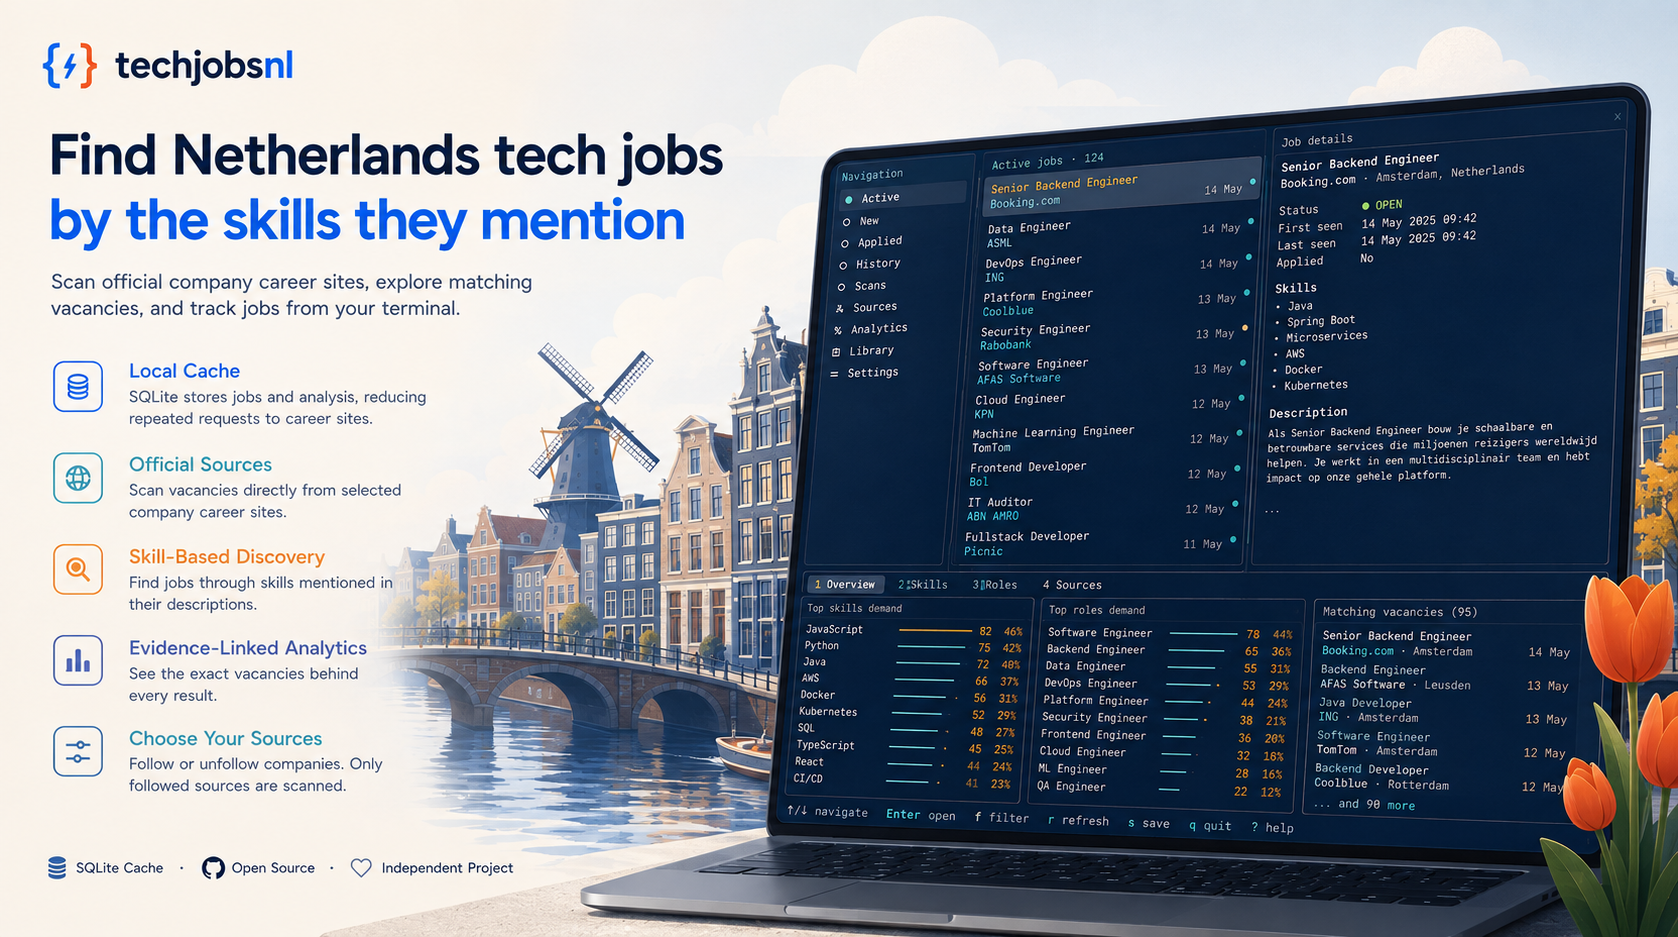
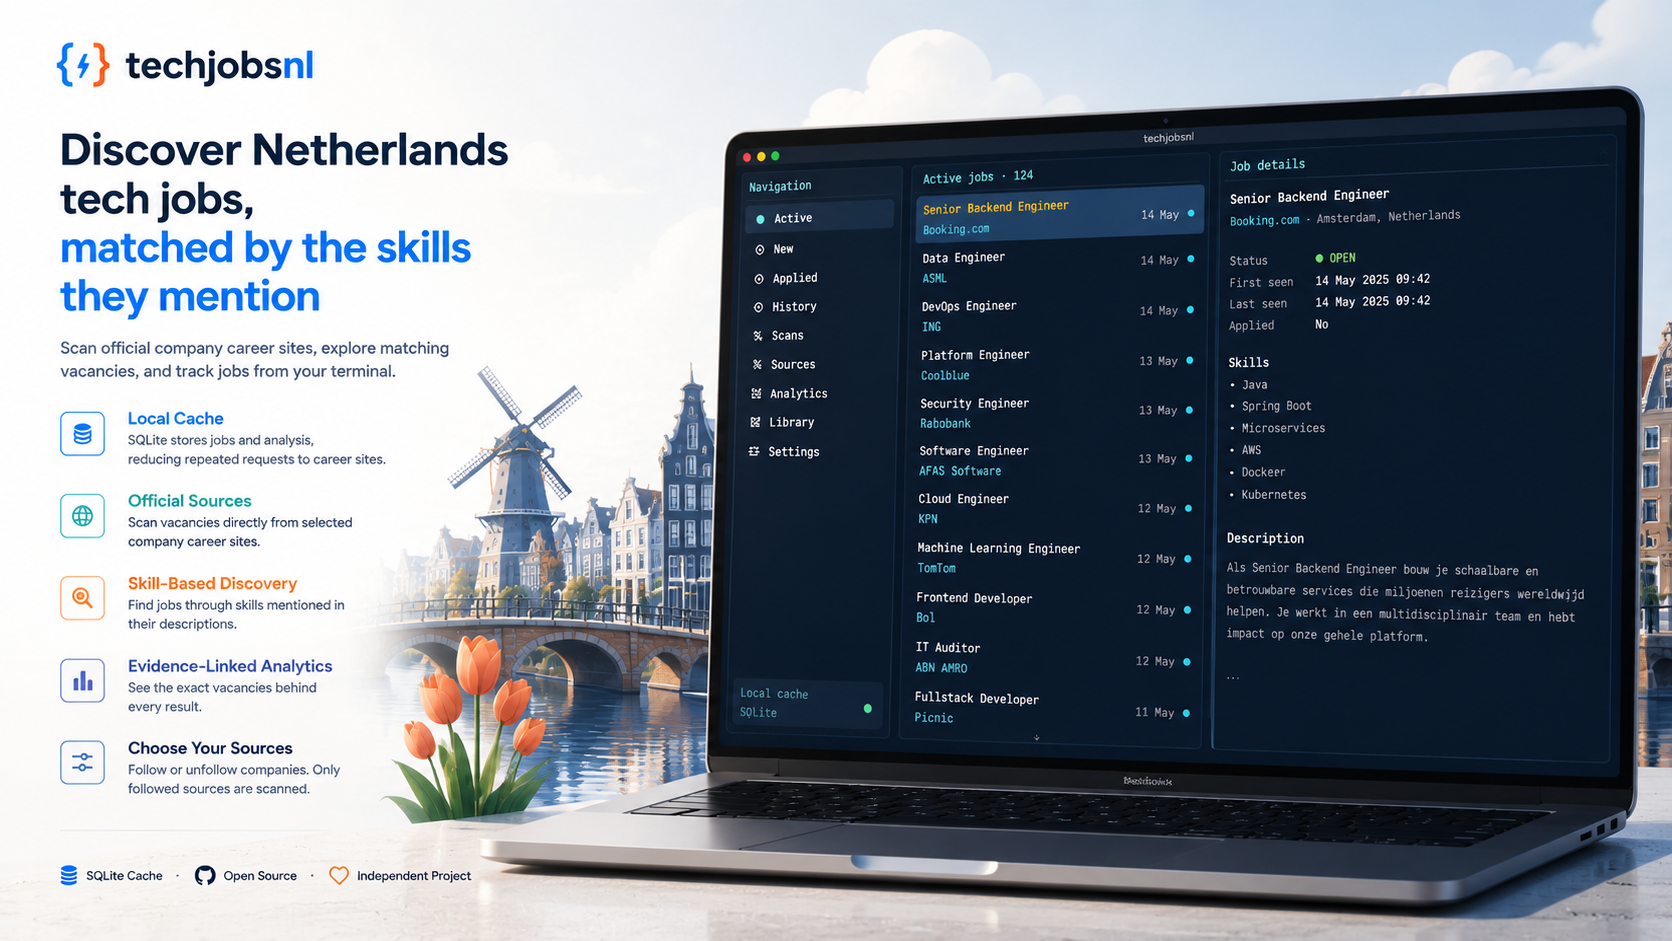
docs: update hero and add support links

diff --git a/README.md b/README.md
@@ -149,3 +149,10 @@ TechJobsNL is an independent, open-source learning project. It is not affiliated
 Copyright © 2026 Mohamed Halawa.
 
 The source code is licensed under the [GNU Affero General Public License v3.0 only](LICENSE). The project does not claim ownership of third-party company names, trademarks, logos, or job-posting content. The software is provided without warranty under the license terms.
+
+## Support
+
+If TechJobsNL is useful to you, you can support its continued open-source development:
+
+- [Buy me a coffee](https://buymeacoffee.com/imhalawa)
+- [Sponsor on GitHub](https://github.com/sponsors/imhalawa)
